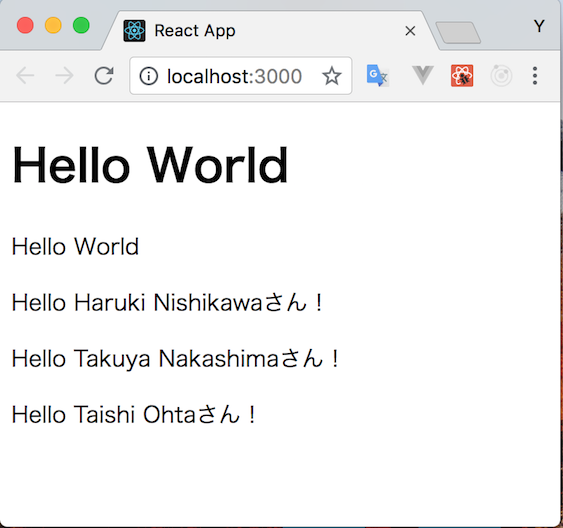
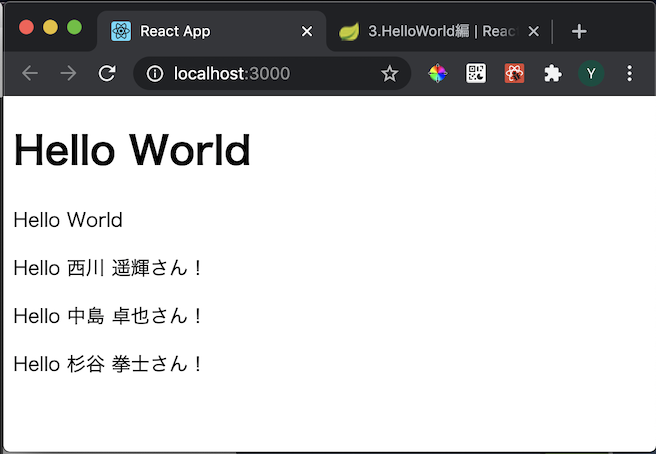
update chapter3

Changed region(s): [[0.0, 0.0, 1.0, 1.0]]

diff --git a/docs/3_hello.md b/docs/3_hello.md
@@ -16,13 +16,27 @@
 - コンポーネントを使う
 - コンポーネントに引数を渡す
 
+## Reactコンポーネントとは
+
+- 2章で出てきたApp.jsのようにhtmlをreturnする関数をReactコンポーネント(或いは単にコンポーネント)と呼ぶ
+
+```jsx
+import React from 'react';
+
+function App() {
+  return <h1>Hello World</h1>;
+}
+
+export default App;
+```
+
 ## コンポーネントを作る
 
 - Reactは複数のコンポーネントを作成しそれらを組み合わせていくことで開発を行う
 
 ### Helloコンポーネントを作る
 
-- `src/components`ディレクトリに`Hello.js`を作成する
+- `src/components`ディレクトリを作り`Hello.js`を作成する
     - `Hello World`を2つ表示するだけのコンポーネント
 
 ```jsx
@@ -40,20 +54,25 @@ function Hello() {
 export default Hello;
 ```
 
+::: tip
+Reactコンポーネントは慣習として最初の文字を大文字で作成します。function名とファイル名の最初の文字は大文字にしましょう。
+:x: hello.js :o: Hello.js
+:::
+
 ## コンポーネントを使う
 
 ### Helloコンポーネントを使う
 
 - 作成したHelloコンポーネントを呼び出して画面に表示されるようにする
 - `import`したコンポーネントはhtmlタグのようにして使うことができる
-- `App.js`を修正する
+- `src/App.js`を修正する
 
 ```jsx
 import React from 'react';
 import Hello from './components/Hello'; // Helloコンポーネントをimportする
 
 function App() {
-  return <Hello />; // importしたHelloコンポーネントを返すように変更する
+  return <Hello />; // importしたHelloコンポーネント使う
 }
 
 export default App;
@@ -65,8 +84,8 @@ export default App;
 
 ## コンポーネントに引数を渡す
 
-- これまでのコンポーネントは毎回決まった値だけを返していた
-- 次は、引数を渡してそれをコンポーネントに埋め込んでみる
+- Helloコンポーネントは決まった値だけを返していた
+- 次は引数を渡してそれをコンポーネントに埋め込んでみる
 
 ### Greetコンポーネントを作る
 
@@ -75,16 +94,20 @@ export default App;
 ```jsx
 import React from 'react';
 
-function Greet({ name }) {
-  return <p>Hello {name}さん！</p>; // {}で囲うと変数を埋め込むことができる
+function Greet({ name }) { // 引数は{}で囲って受け取る
+  return <p>Hello {name}さん！</p>; // htmlタグの中で{}を使うと変数を埋め込むことができる
 }
 
 export default Greet;
 ```
 
+::: tip
+引数を複数受け取りたい場合は`,`区切りで書くことができる。`function Greet({ name, name2, name3 }) {`
+:::
+
 ### Greetコンポーネントを使う
 
-- `App.js`を修正してGreetコンポーネントを呼び出す
+- `src/App.js`を修正してGreetコンポーネントを呼び出す
 
 ```jsx
 import React from 'react';
@@ -96,7 +119,7 @@ function App() {
     <div>
       <Hello />
       {/* 引数は属性として渡す */}
-      <Greet name="Ozaki" />
+      <Greet name="尾崎" />
     </div>
   );
 }
@@ -107,11 +130,11 @@ export default App;
 ### 引数の受け渡し
 
 - 引数は属性に値を設定することで渡すことができる
-    - `<Greet name="Ozaki" />`
+    - `<Greet name="尾崎" />`
 - 属性で渡された値は関数の宣言時に受け取ることができる
     - `function Greet({ name }) {`
 - 引数を渡す時の属性名と、受け取る時の変数名は同一でないといけないので注意
-    - `{}`内の値は、渡した順序ではなく名前で紐づけされている
+    - 引数の受け渡しは、渡した順序ではなく名前で紐づけされている
 - 以下のような画面が表示されていれば完成
 
 ![hello2](/images/3/hello2.png)
@@ -130,7 +153,7 @@ export default App;
 
 ## 課題の回答例
 
-- App.js
+- src/App.js
 
 ```jsx
 import React from 'react';
@@ -141,9 +164,9 @@ function App() {
   return (
     <div>
       <Hello />
-      <Greet firstName="Haruki" lastName="Nishikawa" />
-      <Greet firstName="Takuya" lastName="Nakashima" />
-      <Greet firstName="Taishi" lastName="Ohta" />
+      <Greet firstName="遥輝" lastName="西川" />
+      <Greet firstName="卓也" lastName="中島" />
+      <Greet firstName="拳士" lastName="杉谷" />
     </div>
   );
 }
@@ -151,13 +174,13 @@ function App() {
 export default App;
 ```
 
-- Greet.js
+- src/Greet.js
 
 ```jsx
 import React from 'react';
 
 function Greet({ firstName, lastName }) {
-  return <p>Hello {firstName} {lastName}さん！</p>;
+  return <p>Hello {lastName} {firstName}さん！</p>;
 }
 
 export default Greet;
